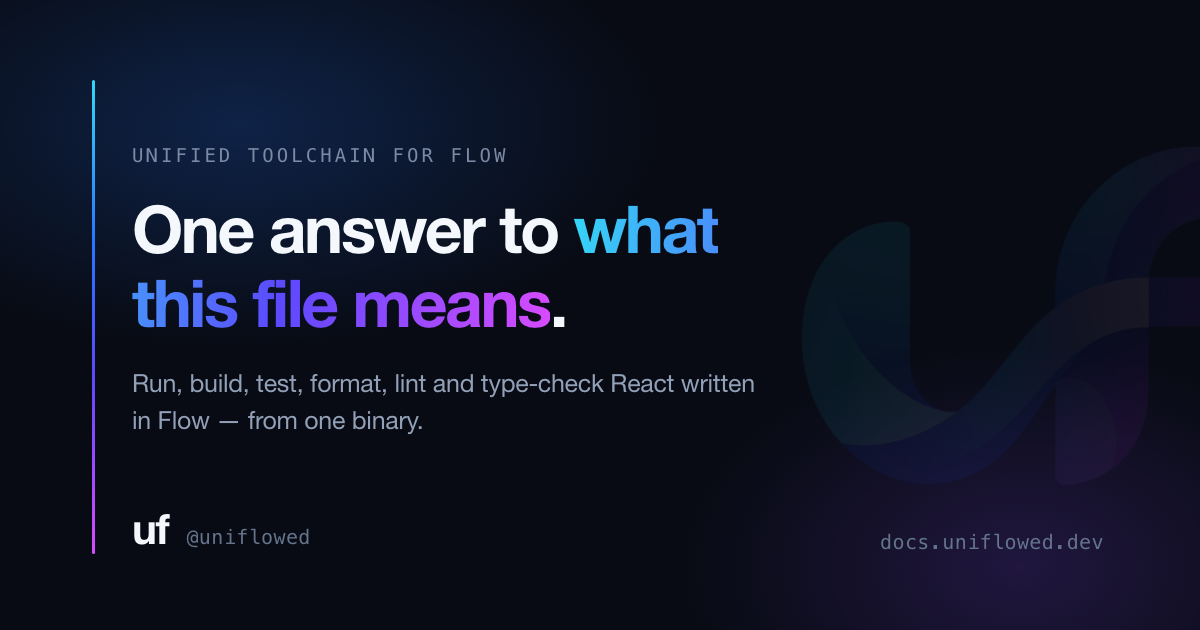
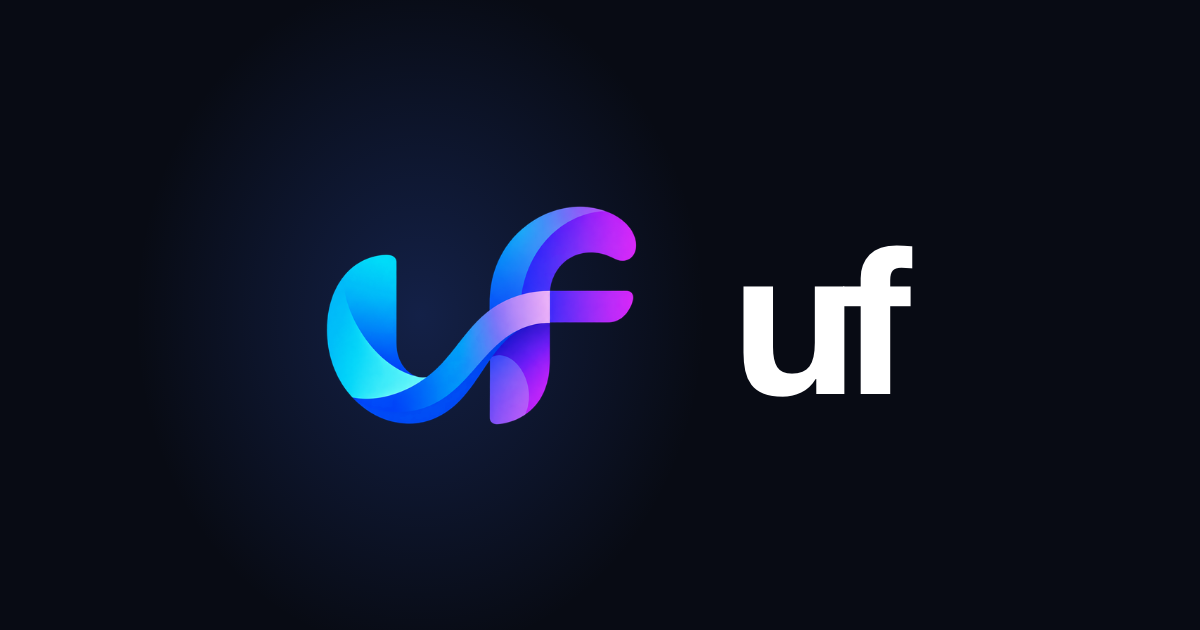
fix(brand): the card is the mark and the name, and nothing else
The first version was type first: an eyebrow in capitals, a two-line headline
with the brand gradient across half of it, a sentence of body copy, and the
mark reduced to seven percent behind the right edge. Four problems, and they
are one problem.

A card never appears alone. Every platform prints `og:title` and
`og:description` beside the image, so a sentence inside it is that sentence
twice — and the copy in the image is the copy nobody can read, because a card
is rendered about five hundred points wide in a feed. What the picture is for
is being recognised, which is the mark's job.

So: the mark at the size a brand is looked at, the name beside it, one wash
behind them, dark. No gradient across the type, because a gradient on a word
competes with a mark that is already the colour. Nothing in capitals. No
catchphrase, which also settles whether the catchphrase was any good.

diff --git a/brand/og.html b/brand/og.html
@@ -8,12 +8,20 @@
   edit here; the PNG beside it is the output and is committed because a build
   should not need a browser.
 
-  What it deliberately is not: the mark on a field. A square logo centred on
-  white is a badge, and every platform that renders a 1.91:1 card crops or
-  letterboxes it into something that says nothing. This one is type first —
-  the proposition, at a size a card is actually read at — with the mark as
-  texture bleeding off the right edge and the brand gradient reduced to a rule
-  down the left margin.
+  Two elements: the mark, and the name. Nothing else.
+
+  A card never appears alone — every platform prints `og:title` and
+  `og:description` beside it — so a sentence in the image is the same sentence
+  twice, and it is the copy in the image that is too small to read. What the
+  picture is for is being recognised, which is the mark's job and not a
+  paragraph's.
+
+  Four things it deliberately does not do. The mark is not a corner watermark:
+  it is the brand, at the size a brand is looked at, and the card is the one
+  place it should carry its colour. The type takes no gradient — a gradient
+  across a word competes with a mark that is already the colour. Nothing is set
+  in capitals. And nothing sits inside a frame, a panel or a rounded rectangle,
+  which is the shape that makes a card look like a badge.
 -->
 <meta charset="utf-8" />
 <style>
@@ -21,152 +29,50 @@
   html, body { width: 1200px; height: 630px; }
   body {
     background: #080b14;
-    color: #e6eaf2;
+    color: #ffffff;
     font-family: "Inter", ui-sans-serif, -apple-system, "Helvetica Neue", sans-serif;
-    font-feature-settings: "ss01", "cv11", "tnum";
     -webkit-font-smoothing: antialiased;
     position: relative;
     overflow: hidden;
   }
 
-  /* A single wash off the top-left, so the ground has depth without becoming
-     the subject. No vignette, no glow behind the type. */
+  /* One wash, thrown from behind the mark, so the ground has depth and the
+     mark has somewhere to sit. Not a glow around it — that is a badge. */
   .wash {
     position: absolute;
-    inset: -30% 30% 30% -30%;
-    background: radial-gradient(closest-side, rgba(38, 119, 255, 0.22), transparent 70%);
-  }
-  .wash2 {
-    position: absolute;
-    inset: 40% -25% -40% 45%;
-    background: radial-gradient(closest-side, rgba(143, 75, 255, 0.18), transparent 70%);
-  }
-
-  /* The one place the brand gradient appears at full strength: a 3px rule down
-     the left margin, which is where the text block starts. */
-  .rule {
-    position: absolute;
-    left: 92px;
-    top: 80px;
-    bottom: 76px;
-    width: 3px;
-    background: linear-gradient(180deg, #35d6f6, #2677ff 34%, #5c49ff 62%, #d84bff);
-    border-radius: 3px;
+    left: 2%;
+    top: -25%;
+    width: 66%;
+    height: 150%;
+    background: radial-gradient(closest-side, rgba(60, 110, 255, 0.22), transparent 72%);
   }
 
   main {
     position: relative;
     height: 100%;
-    padding: 80px 96px 76px 132px;
     display: flex;
-    flex-direction: column;
-  }
-  /* The text block is optically centred and the footer sits on the baseline,
-     so the space left over is shared above and below rather than pooling in
-     one gap under the paragraph. */
-  .block {
-    flex: 1;
-    display: flex;
-    flex-direction: column;
+    align-items: center;
     justify-content: center;
+    gap: 72px;
   }
 
-  .eyebrow {
-    font-family: "JetBrains Mono", ui-monospace, SFMono-Regular, Menlo, monospace;
-    font-size: 19px;
-    letter-spacing: 0.16em;
-    text-transform: uppercase;
-    color: #7c8aa5;
-    font-weight: 500;
+  .mark {
+    width: 360px;
+    height: 360px;
+    flex: none;
   }
 
   h1 {
-    font-size: 66px;
-    line-height: 1.12;
-    letter-spacing: -0.038em;
-    font-weight: 600;
-    color: #f4f7fb;
-    max-width: 17ch;
-    margin-top: 26px;
-  }
-  h1 em {
-    font-style: normal;
-    background: linear-gradient(96deg, #35d6f6, #5c49ff 52%, #d84bff);
-    -webkit-background-clip: text;
-    background-clip: text;
-    color: transparent;
-  }
-
-  p {
-    margin-top: 24px;
-    font-size: 25px;
-    line-height: 1.5;
-    letter-spacing: -0.011em;
-    color: #93a1b8;
-    max-width: 46ch;
-    font-weight: 400;
-  }
-
-  footer {
-    display: flex;
-    align-items: flex-end;
-    justify-content: space-between;
-  }
-  .name {
-    display: flex;
-    align-items: baseline;
-    gap: 18px;
-  }
-  .name b {
-    font-size: 42px;
+    font-size: 208px;
+    line-height: 0.82;
+    letter-spacing: -0.06em;
     font-weight: 700;
-    letter-spacing: -0.03em;
-    color: #f4f7fb;
-  }
-  .name span {
-    font-family: "JetBrains Mono", ui-monospace, SFMono-Regular, Menlo, monospace;
-    font-size: 20px;
-    color: #64748b;
-    letter-spacing: 0.02em;
-  }
-  .host {
-    font-family: "JetBrains Mono", ui-monospace, SFMono-Regular, Menlo, monospace;
-    font-size: 20px;
-    color: #64748b;
-    letter-spacing: 0.02em;
-  }
-
-  /* The mark, large and almost invisible, bleeding off the right edge. It is
-     texture rather than a badge: nothing is centred on it and nothing is
-     enclosed by it. */
-  .mark {
-    position: absolute;
-    right: -120px;
-    top: 50%;
-    transform: translateY(-50%);
-    width: 560px;
-    opacity: 0.07;
-    filter: grayscale(0.15);
   }
 </style>
 
 <div class="wash"></div>
-<div class="wash2"></div>
-<img class="mark" src="uniflowed-mark.png" alt="" />
-<div class="rule"></div>
 
 <main>
-  <div class="block">
-    <div class="eyebrow">Unified Toolchain for Flow</div>
-    <h1>One answer to <em>what this file means</em>.</h1>
-    <p>Run, build, test, format, lint and type-check React written in Flow — from one binary.</p>
-  </div>
-
-  <footer>
-    <div class="name">
-      <b>uf</b>
-      <span>@uniflowed</span>
-    </div>
-    <div class="host">docs.uniflowed.dev</div>
-  </footer>
+  <img class="mark" src="uniflowed-mark.png" alt="" />
+  <h1>uf</h1>
 </main>

diff --git a/brand/README.md b/brand/README.md
@@ -16,10 +16,11 @@ design tokens, and Flow constants used by docs and examples.
 - `favicon.svg`: browser icon
 - `og.png`: the 1200×630 share card, and `og.html` the CSS it is rendered from
 
-  Type first, not the mark on a field: a square logo centred on white is a
-  badge, and every platform that renders a 1.91:1 card crops or letterboxes it
-  into something that says nothing. The mark is texture bleeding off the right
-  edge, and the gradient is a rule down the left margin.
+  The mark and the name on the dark ground, and nothing else. A card never
+  appears alone — every platform prints `og:title` and `og:description` beside
+  it — so a sentence in the image is that sentence twice, and it is the copy in
+  the image that is too small to read. What the picture is for is being
+  recognised.
 
   `og.html` is the source and `tools/brand/render-og.sh` turns it into the PNG,
   which is committed because a build should not need a browser.
